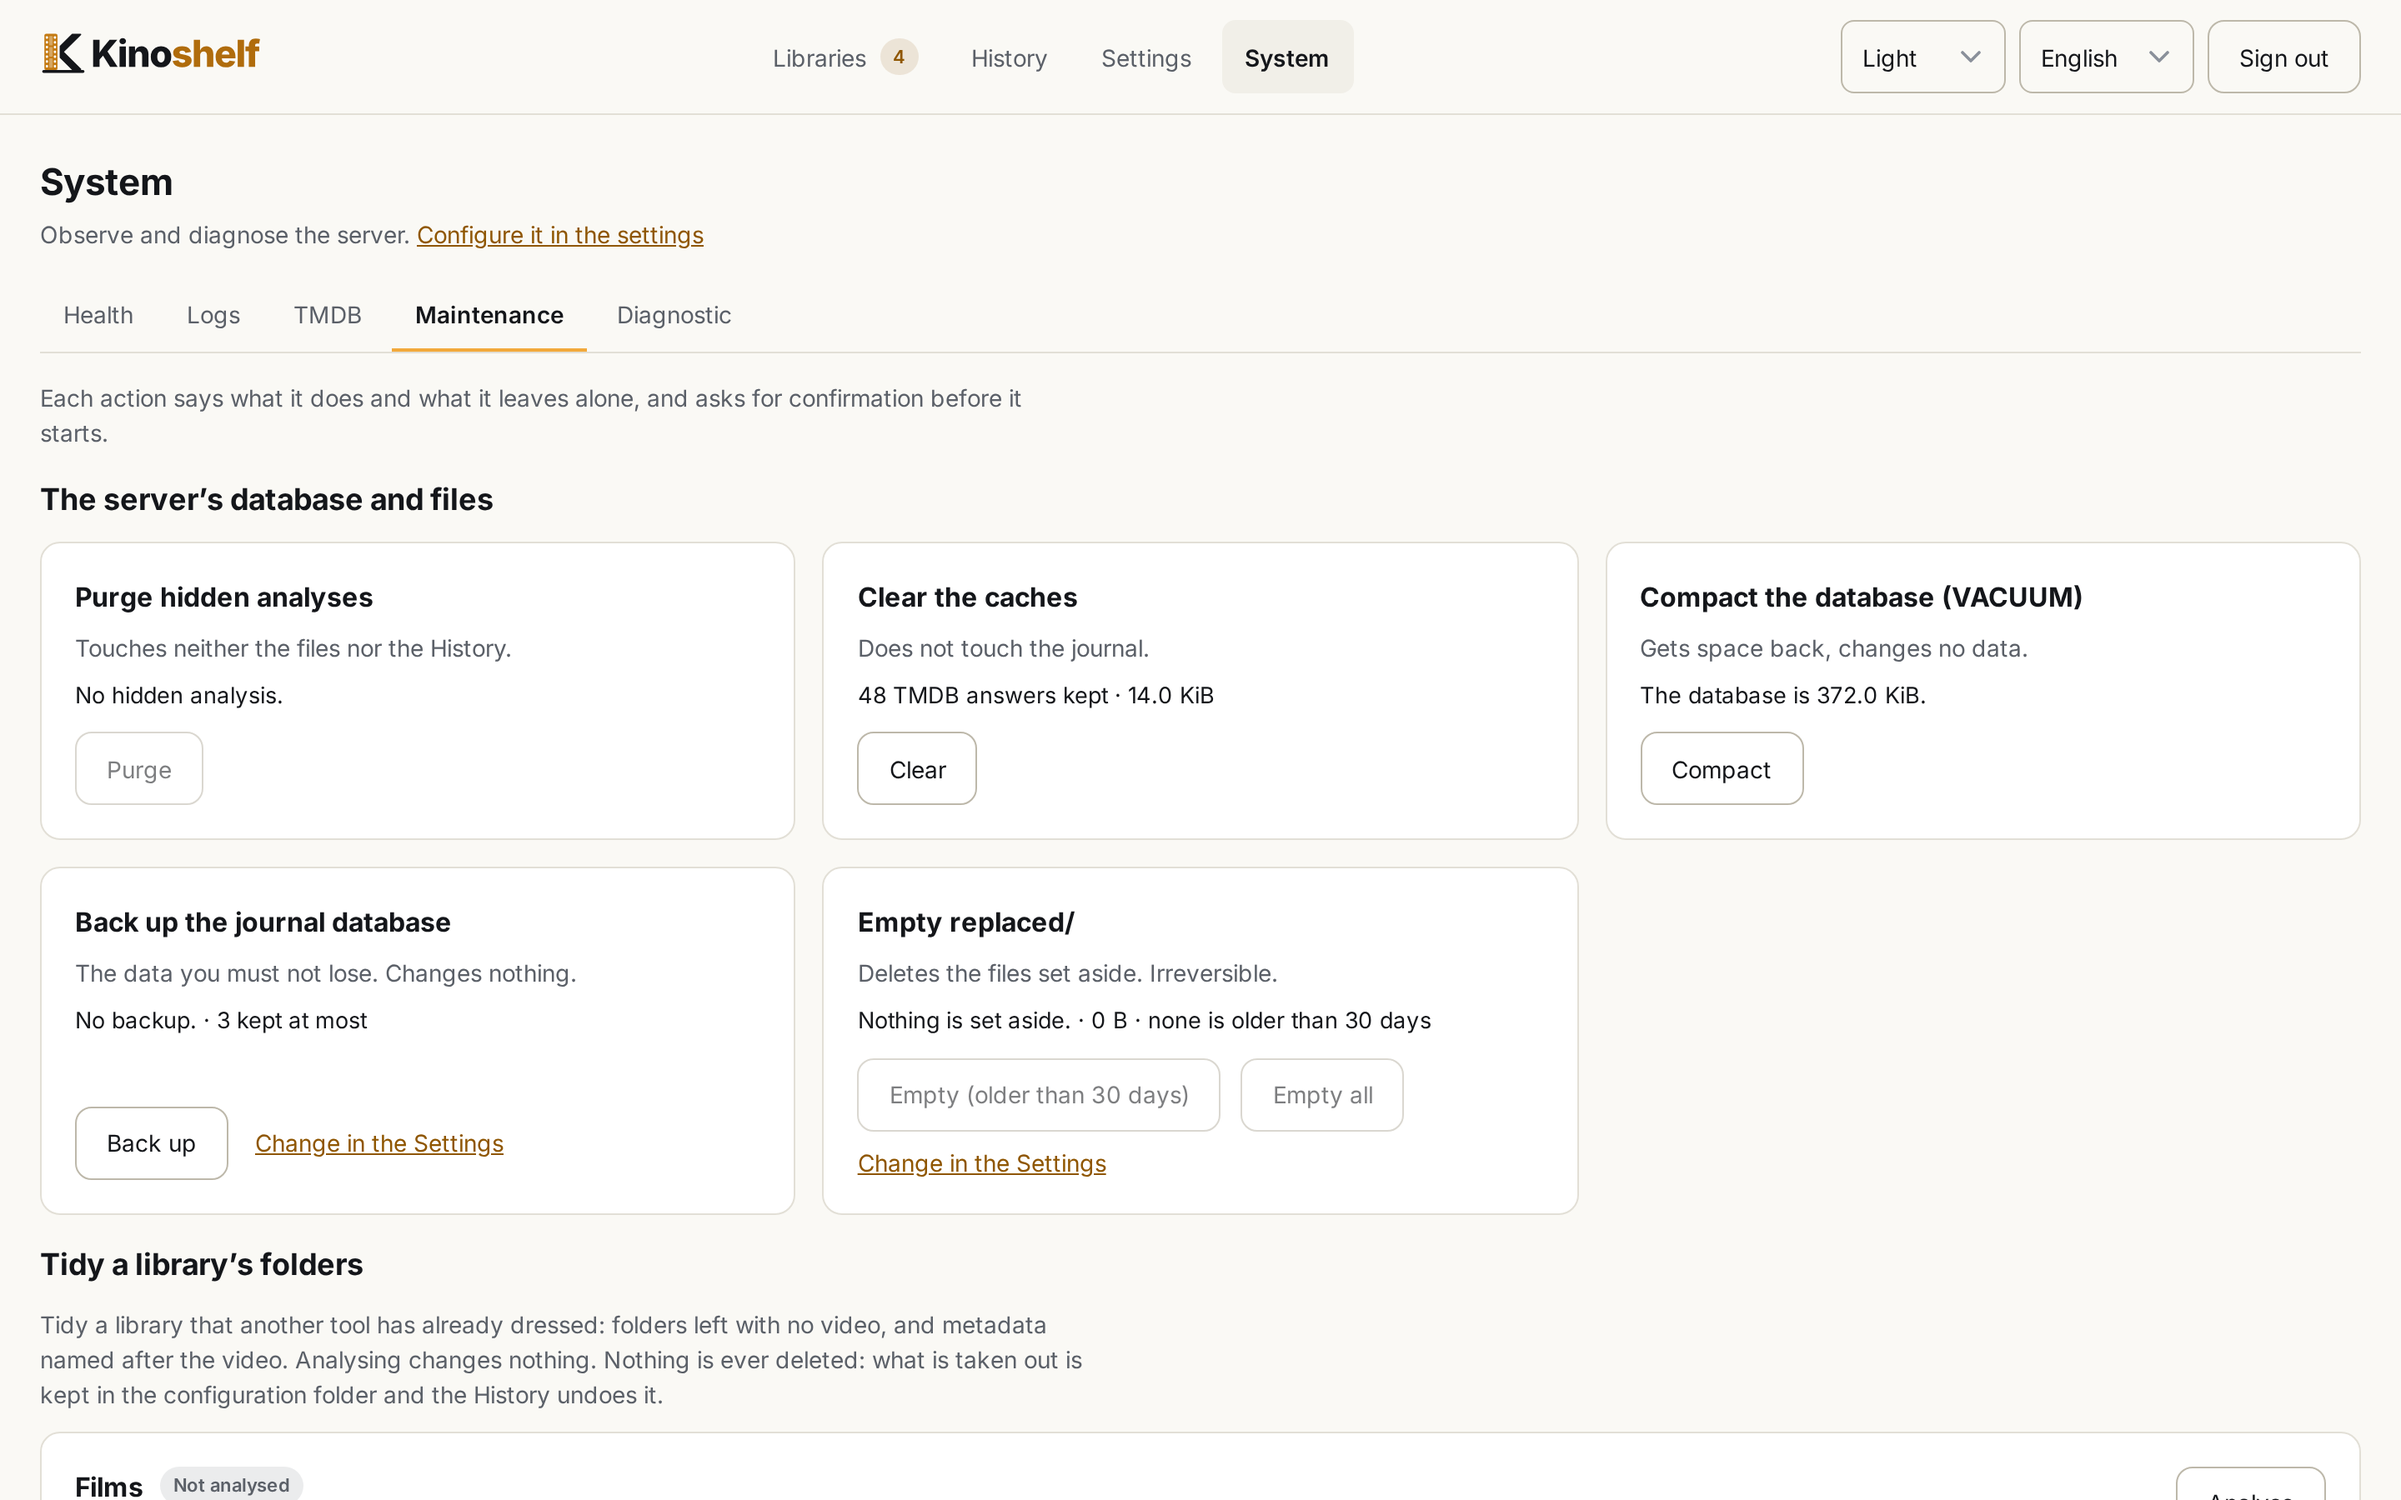
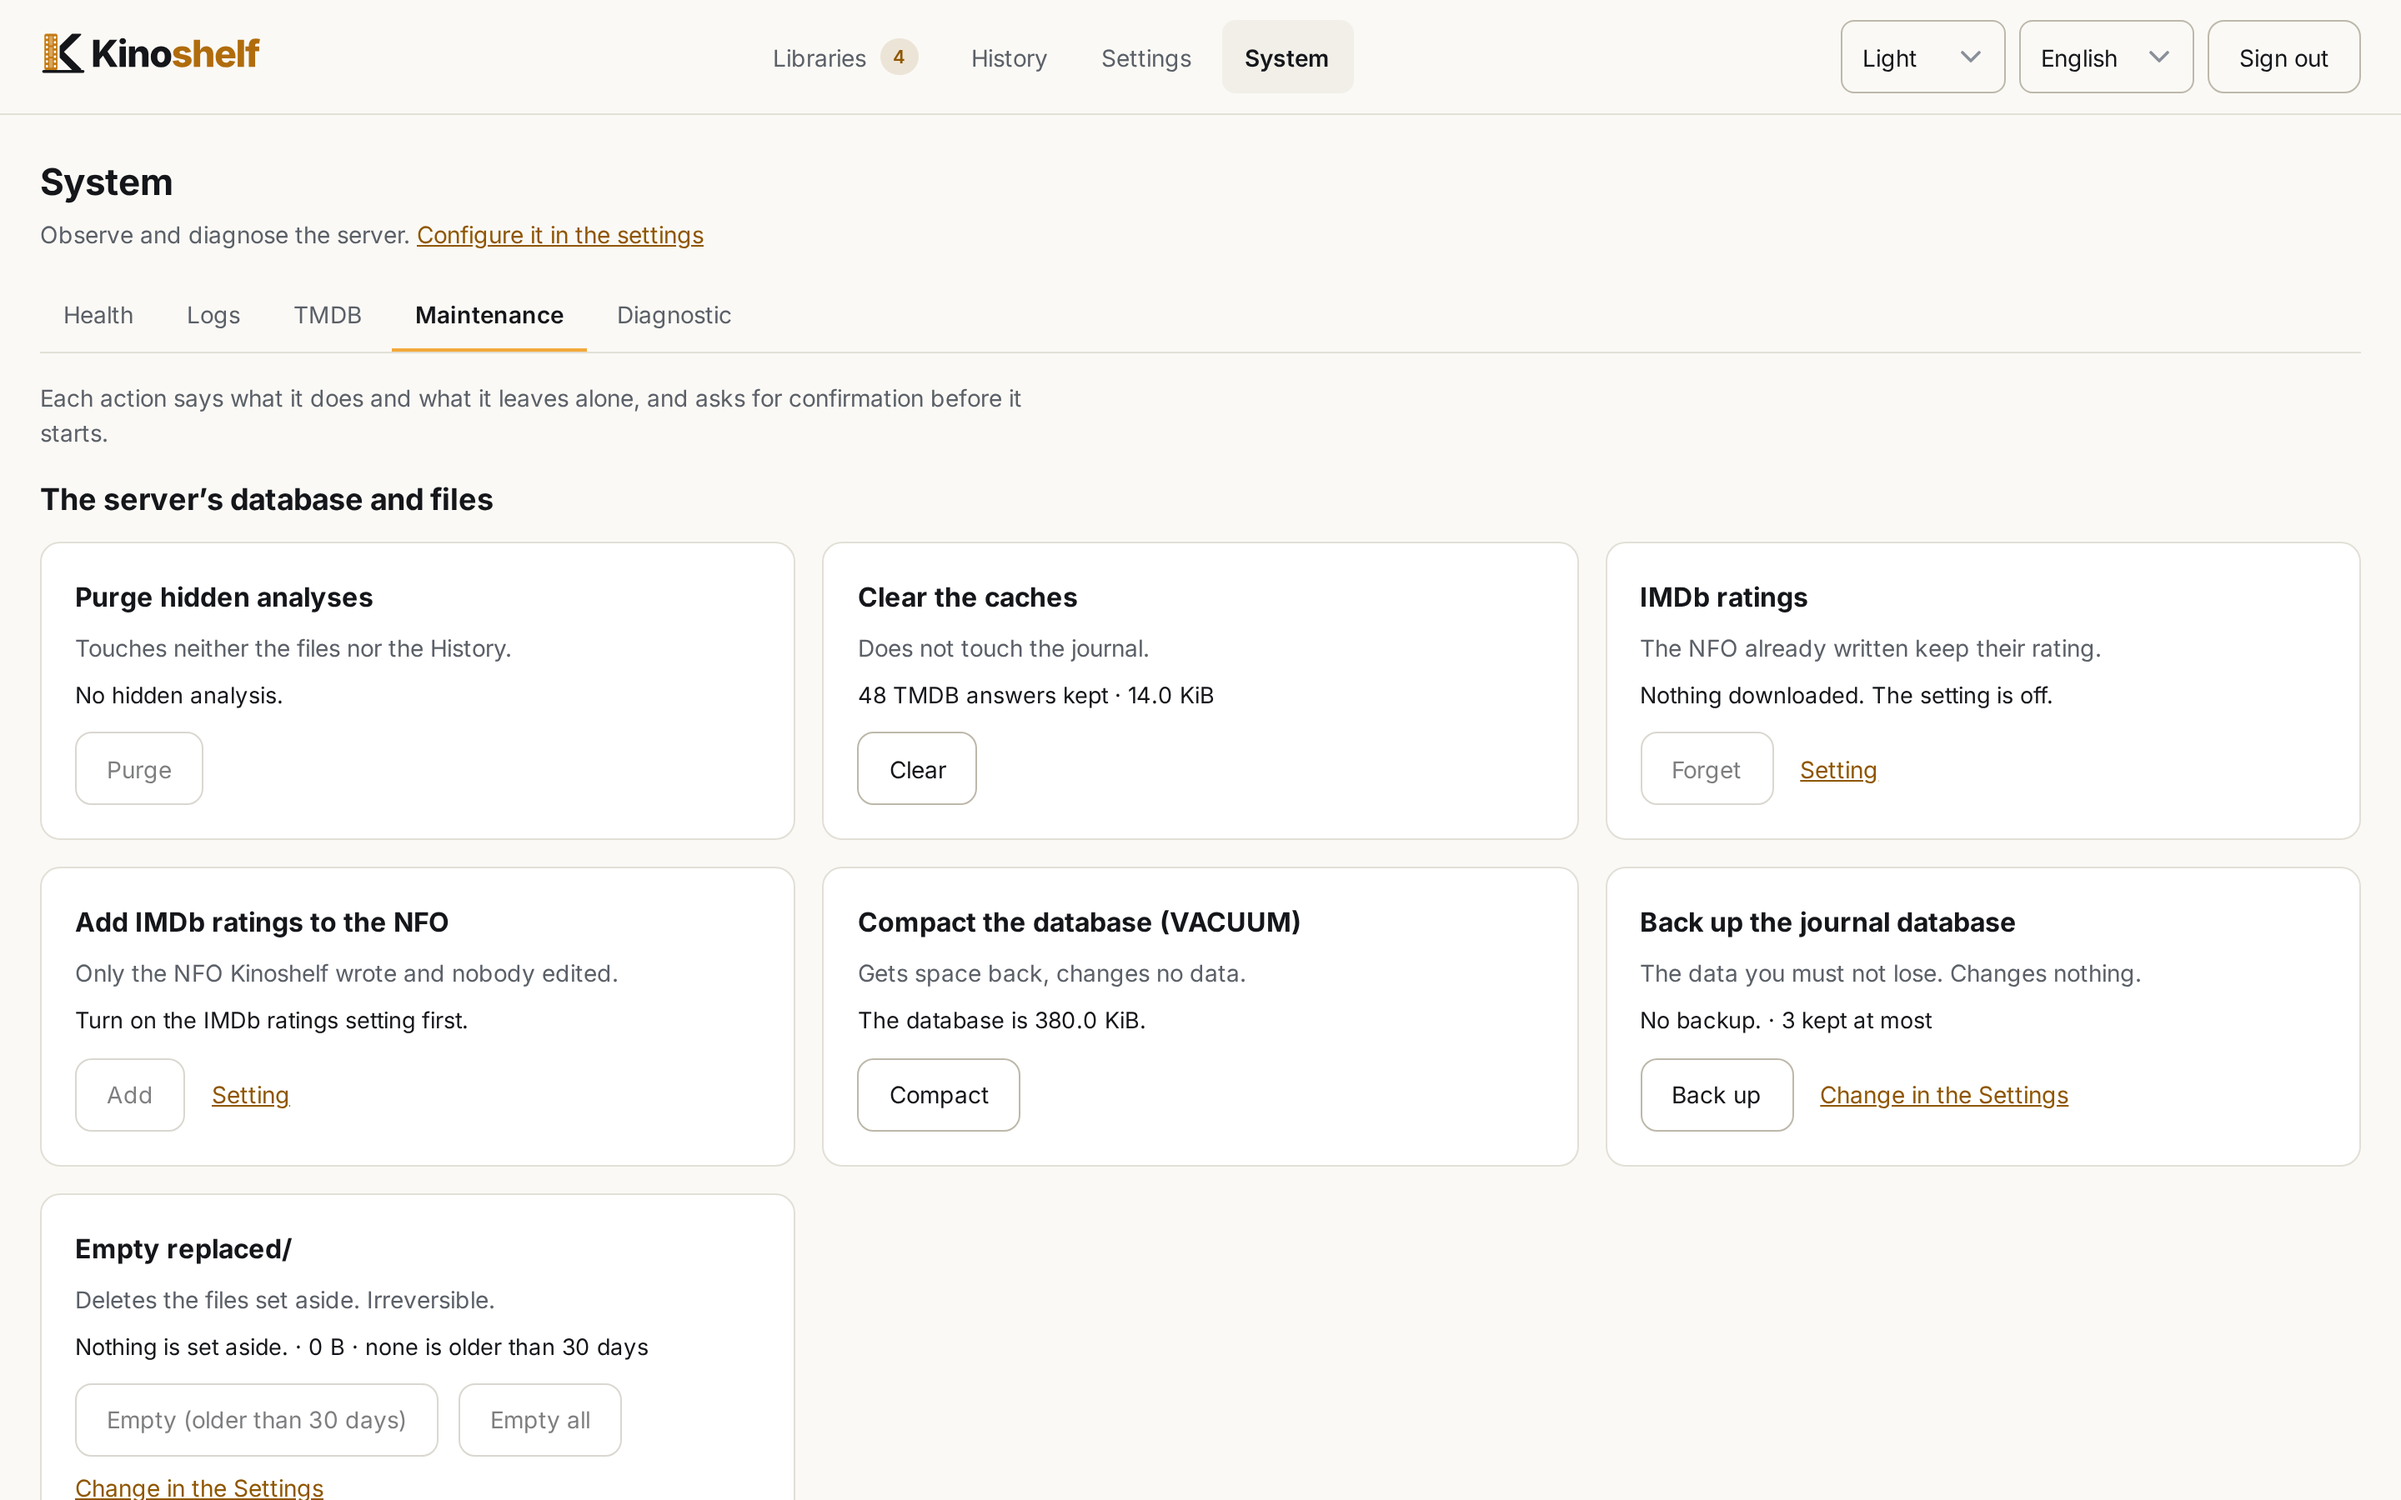
docs: describe IMDb ratings in the NFO
Cover the opt-in setting and its welcome step, the ratings on the
sheets, adding a rating to an NFO already written, the two Maintenance
cards and the History's "NFO replaced"; refresh the Maintenance
screenshots.

diff --git a/docs/1-web-ui.md b/docs/1-web-ui.md
@@ -71,7 +71,7 @@ file of the library would be offered as an arrival. See
 
 On a new install, `/` shows a setup in four steps: the TMDB key (your own, tested as soon as you enter
 it), Plex or Jellyfin, your movies and series folders (the first libraries, organized in place; give
-only the one you keep if you have movies or series alone) and a downloads folder pointing at them (watched, or scanned once). Each step ticks itself once the
+only the one you keep if you have movies or series alone; it also offers [IMDb ratings](5-output-options.md#imdb-ratings), off unless ticked) and a downloads folder pointing at them (watched, or scanned once). Each step ticks itself once the
 configuration says so, and the server remembers what you skipped. The app then opens on Libraries.
 
 If the first job fails, it is not lost: the History lists it with its cause.
@@ -124,7 +124,8 @@ How a download gets here is explained in [Getting downloads in](4-getting-downlo
 One list for what Kinoshelf did:
 
 - a **batch** is a line (a transfer, a rename, a refresh, an image change, a tidy-up…), with its
-  files, what was written beside them (NFO, images) and what was set aside;
+  files, what was written beside them (NFO, images) and what was set aside (an NFO written again, for
+  instance to add a rating, reads "NFO replaced", and undoing the batch puts the old file back);
 - a **job** is a line only while it has no batch: waiting, running, or failed, with its cause, the
   settings it ran with and **Send again**. A job that made a batch is folded into it.
 - Analyses that finished and moved nothing are hidden until you tick **Show every analysis**. They
@@ -146,7 +147,7 @@ The selected line is in the address (`/history/<id>`), so you can link to it.
 At the bottom right of every page, a pill says how many tasks run in the background. It unfolds to a
 line per task: title, phase, progress bar, current file and a link to where it is followed. It lists
 scans, transfers, undos, arrival validations, tidy-ups, database backup and compaction, emptying
-`replaced/` and sending collection images. A finished task stays a few seconds (ten minutes when it
+`replaced/`, sending collection images, downloading IMDb's ratings and adding them to the NFO. A finished task stays a few seconds (ten minutes when it
 failed) and can be closed by hand.
 
 ## Settings
@@ -193,7 +194,9 @@ or `scan` and `process` on the command line):
 - **Read the picture size with ffprobe** (on by default): when a name says no size and another
   version is in the way, the size is read from the file so both can be kept side by side;
 - **Allow image addresses on the local network** (off by default): see
-  [Changing an image](2-libraries.md#changing-an-image).
+  [Changing an image](2-libraries.md#changing-an-image);
+- **Write IMDb's rating in the NFO** (off by default, and nothing is downloaded while it is): see
+  [IMDb ratings](5-output-options.md#imdb-ratings).
 
 ### Retention
 

diff --git a/docs/6-configuration.md b/docs/6-configuration.md
@@ -49,6 +49,7 @@ threshold: 85 # minimum score for an automatic match, 0 to 100 (default 85)
 retentionDays: 30 # days after which a settled job is forgotten, 0 keeps all
 detectPictureSize: true # read a video's size with ffprobe when its name says none (default)
 allowLocalImageUrls: false # let a custom image address point at the local network (default off)
+imdbRatings: false # download IMDb's ratings file and write the rating in the NFO (default off)
 backupKeep: 3 # database backups kept by the Maintenance tab
 replacedRetentionDays: 30 # days before "Empty replaced/" deletes a file set aside, 0 = all
 
@@ -89,6 +90,7 @@ notify:
 | `threshold`             | 0 to 100                    | 85                                       | minimum score for an automatic match                                              |
 | `detectPictureSize`     | `true`, `false`             | `true`                                   | read a size with `ffprobe` when the name gives none and another version is there  |
 | `allowLocalImageUrls`   | `true`, `false`             | `false`                                  | let an image address of your own point at the local network                       |
+| `imdbRatings`           | `true`, `false`             | `false`                                  | download IMDb's ratings file and write its rating in the NFO                      |
 | `retentionDays`         | whole number                | 30                                       | days before a settled job is forgotten (0 keeps all); the journal is never purged |
 | `backupKeep`            | at least 1                  | 3                                        | database backups kept                                                             |
 | `replacedRetentionDays` | whole number                | 30                                       | days before "Empty replaced/" deletes a set-aside file (0 = all)                  |

diff --git a/docs/5-output-options.md b/docs/5-output-options.md
@@ -58,6 +58,25 @@ The NFO also carries TMDB's keywords (`<tag>`, in English), the age rating (`<mp
 collection (`<set>`) of a movie that has one, and a TMDB `<uniqueid>`. Images are fetched from TMDB at
 `standard` size, and `original` for a fanart or a logo.
 
+### IMDb ratings
+
+TMDB's rating is always written. **Write IMDb's rating in the NFO** (Settings › Default settings, or the
+welcome; `imdbRatings` in `config.yaml`) adds IMDb's beside it (`<rating name="imdb">`, with its vote
+count), TMDB's staying the default one. It is **off by default, and nothing is downloaded while it is**:
+ticked, Kinoshelf fetches IMDb's public ratings file, which IMDb offers for personal, non-commercial
+use, at most once a day, and keeps it in its own database (never shipped in the image or the binary).
+The download shows in the activity panel; a work the file does not know gets no IMDb rating.
+
+An NFO that already exists is never rewritten by a refresh, so only the ones written from then on carry
+the rating. To add it to the others:
+
+- **from the page of a movie or a show**, **Add the IMDb rating to the NFO**;
+- **for every library**, the **Add IMDb ratings to the NFO** card of the [Maintenance](3-system.md#maintenance) tab.
+
+The rating is inserted in the file as it is, with no request to TMDB, and **only if Kinoshelf wrote the
+NFO and nobody edited it since**: one from another tool, or changed by hand, is left alone and counted.
+The old file is set aside in `<config>/replaced/` and the batch can be undone from the History.
+
 A `.nfo` already beside a video (another tool's, edited by hand) is never deleted nor overwritten: when
 Kinoshelf writes its own, the other one stays where it is, and `kinoshelf tidy` reports it. Subtitles
 always travel with their video.

diff --git a/docs/8-api.md b/docs/8-api.md
@@ -46,6 +46,7 @@ key) is the reference for parameters and responses; this is the map.
 | Plans           | `POST /api/plans/{id}/execute` (with `entries`) transfers what a plan holds                                                                                                               |
 | Libraries       | `/api/libraries` and `/api/libraries/{id}` (CRUD), `.../scan`, `.../rescan`, `.../execute`                                                                                                |
 | Library content | `.../items`, `.../items/{itemId}`, `.../shows`, `.../shows/{tmdbId}`, `PUT`/`DELETE .../shows/{tmdbId}/seasons/{season}/versions/accepted`                                                |
+| Metadata        | `POST .../libraries/{id}/imdb-nfo` adds IMDb's rating to the NFO of one work                                                                                                              |
 | Images          | `.../items/{itemId}/images`, `.../shows/{tmdbId}/images` and an episode's, with `.../preview`                                                                                             |
 | Collections     | `.../collection`, `.../collections`, `.../collections/{key}/images`, `/rename`, `/send`                                                                                                   |
 | History         | `GET /api/history`, `GET /api/batches/{id}`, `POST /api/batches/{id}/undo` (202, a task)                                                                                                  |

diff --git a/docs/2-libraries.md b/docs/2-libraries.md
@@ -90,8 +90,10 @@ line.
 ## The page of an item
 
 A movie, a show and an episode share one layout: banner (an episode's thumbnail), identity, a line of
-facts (length or counts, genres), the TMDB link, the synopsis, the facts (path, metadata ticks) and
-**Versions**. A movie also has its `ffprobe` details per file; an episode has no action of its own,
+facts (length or counts, genres), the TMDB link, the synopsis, the facts (the ratings of a movie or
+a show, path, metadata ticks) and **Versions**. The **ratings** read `IMDb 8,0 · TMDB 7,8`: hover a value
+to see how many votes stand behind it. IMDb's is there only with [that setting](5-output-options.md#imdb-ratings)
+on, and when its file knows the work. A movie also has its `ffprobe` details per file; an episode has no action of its own,
 it is analyzed and matched with its series.
 
 ## Several versions of a movie or an episode
@@ -141,8 +143,8 @@ An image TMDB has none of is shown as **not available on TMDB** (a plain dash), 
 does not make a work "incomplete".
 
 The NFO carries the basics plus TMDB keywords (`<tag>`, in English), the age rating (`<mpaa>`, with
-the country following the metadata language: `FR:16`, `PG-13`), the series' TheTVDB id and, for a
-movie, its collection (`<set>`).
+the country following the metadata language: `FR:16`, `PG-13`), the series' TheTVDB id, IMDb's rating
+when [that setting](5-output-options.md#imdb-ratings) is on and, for a movie, its collection (`<set>`).
 
 ### Changing an image
 

diff --git a/docs/3-system.md b/docs/3-system.md
@@ -89,6 +89,14 @@ A grid of cards, each saying what it does and what it leaves alone, and asking b
   daily purge. Never one with a transfer, a failure, a file still waiting in Arrivals or a row a
   library's list reads.
 - **Clear the caches**: empties the TMDB cache. The journal is untouched.
+- **IMDb ratings**: shows what the database holds of IMDb's ratings file (how many, when it was
+  downloaded, whether the setting is on), even with the setting off, and **Forget** drops it. While the
+  setting is on, it is downloaded again within the hour. The NFO already written keep their rating.
+- **Add IMDb ratings to the NFO**: inserts IMDb's rating in the NFO of every library that writes them
+  (see [IMDb ratings](5-output-options.md#imdb-ratings)), as a background task with a bar. Only an NFO
+  Kinoshelf wrote and nobody edited is changed; the old ones are set aside in `replaced/` and the
+  History undoes the whole batch. It needs the setting on and the file downloaded; it is refused while a
+  scan, a transfer, a tidy-up or an undo runs.
 - **Back up the database**: a consistent copy to `<config>/backups/kinoshelf-YYYYMMDD-HHMM.sqlite`
   (UTC), then the oldest beyond the number to keep (Settings › Retention, 3) are removed.
 - **Compact**: `VACUUM`. Refused while a scan or a transfer runs, since it holds the server for its
